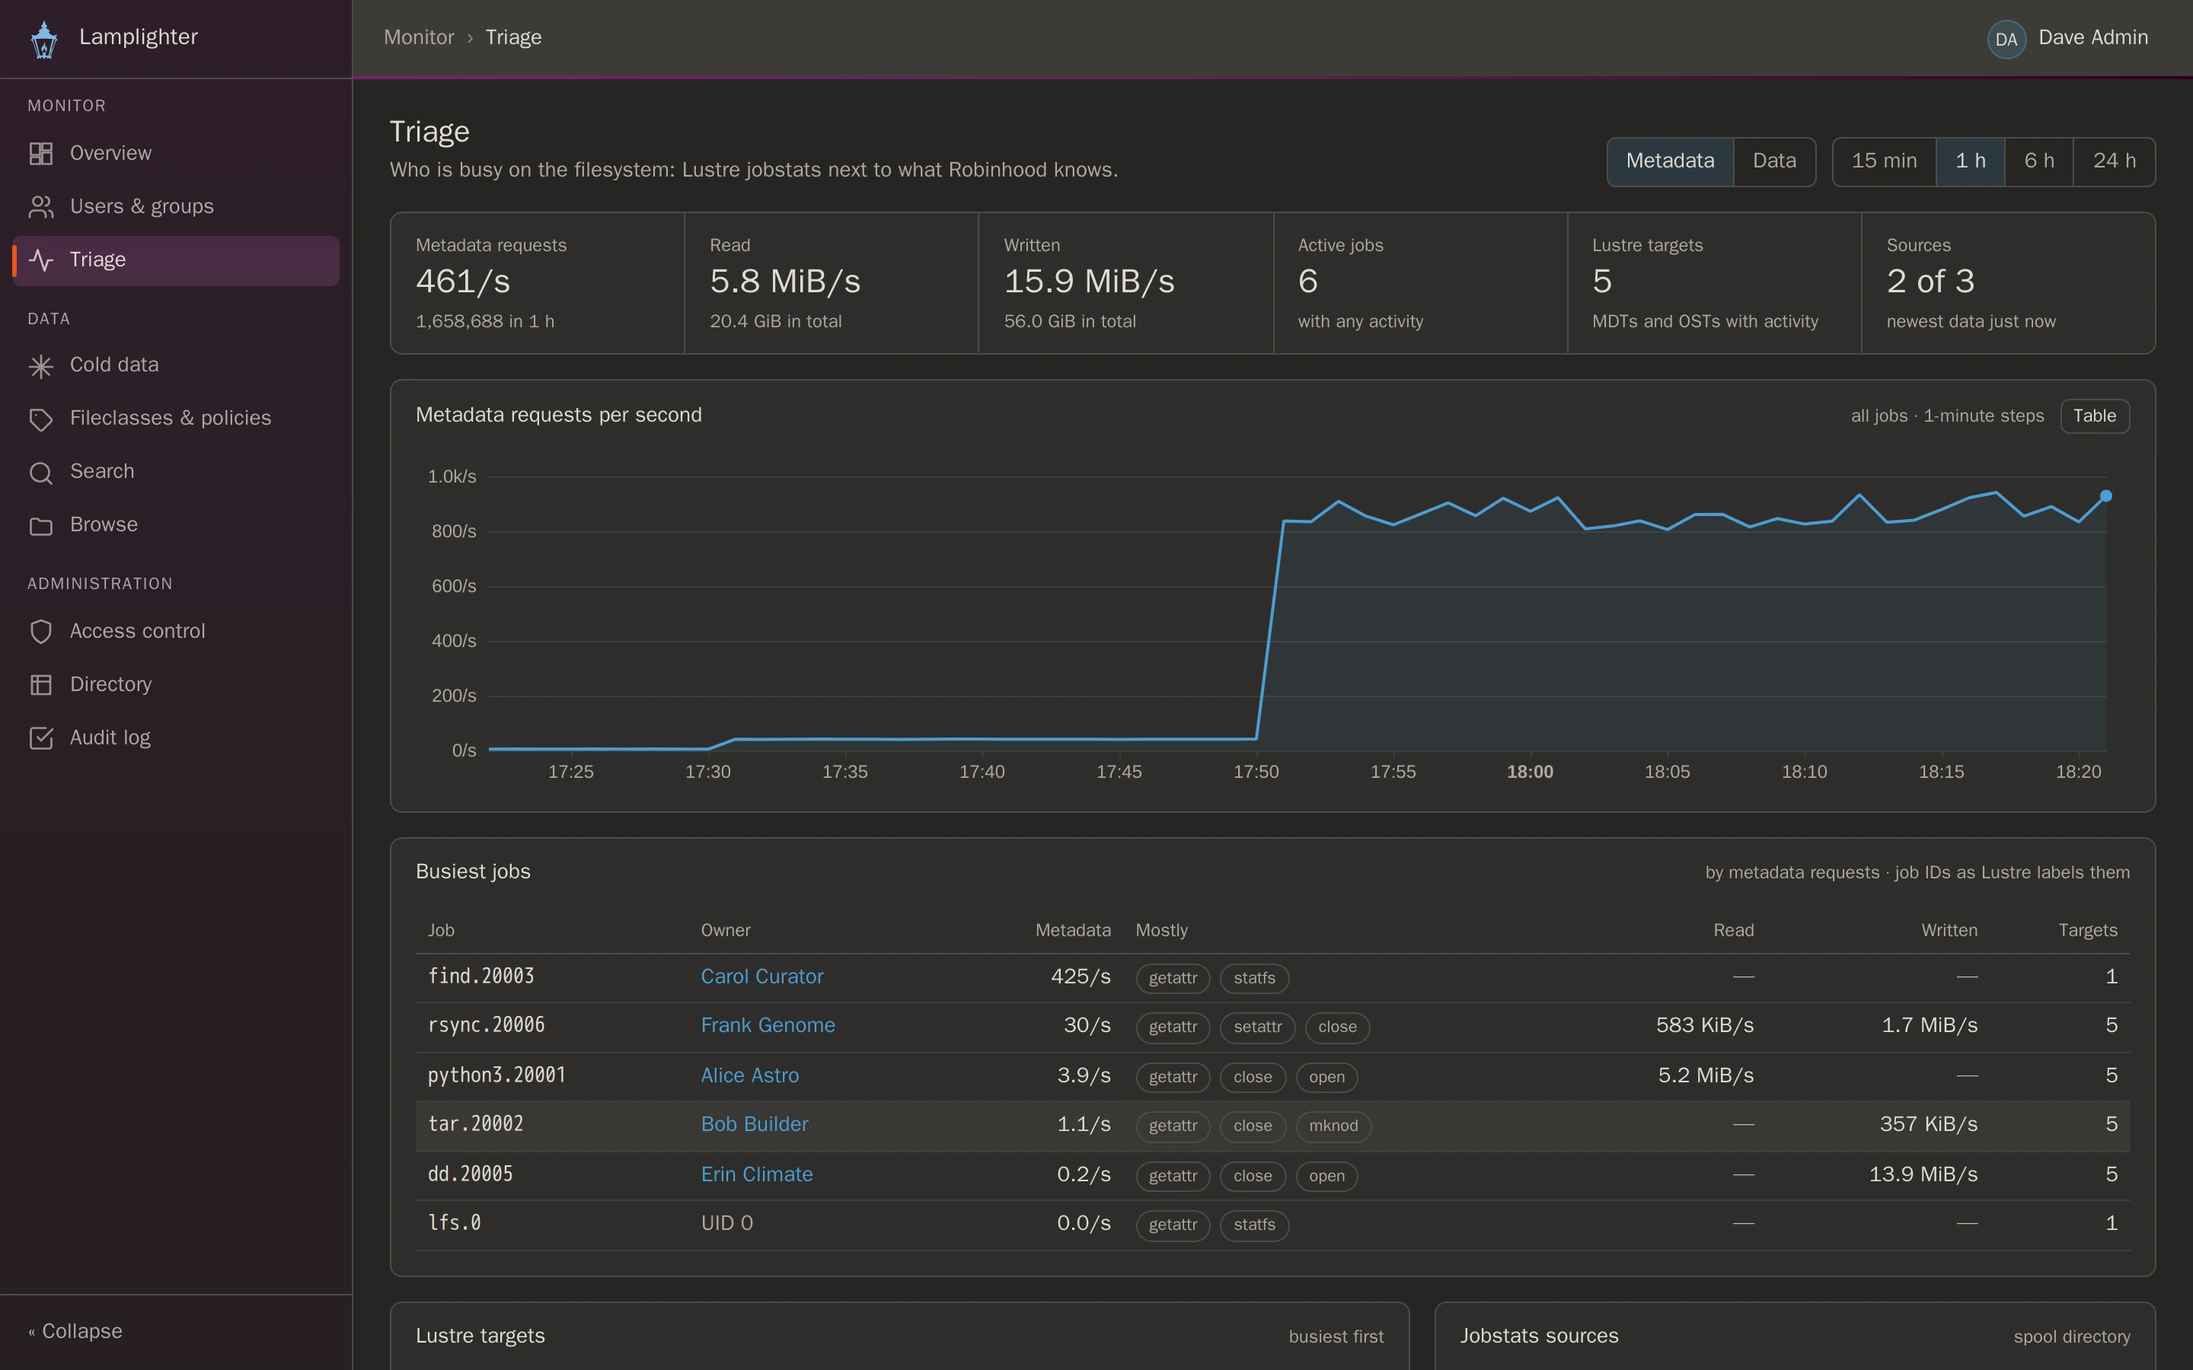
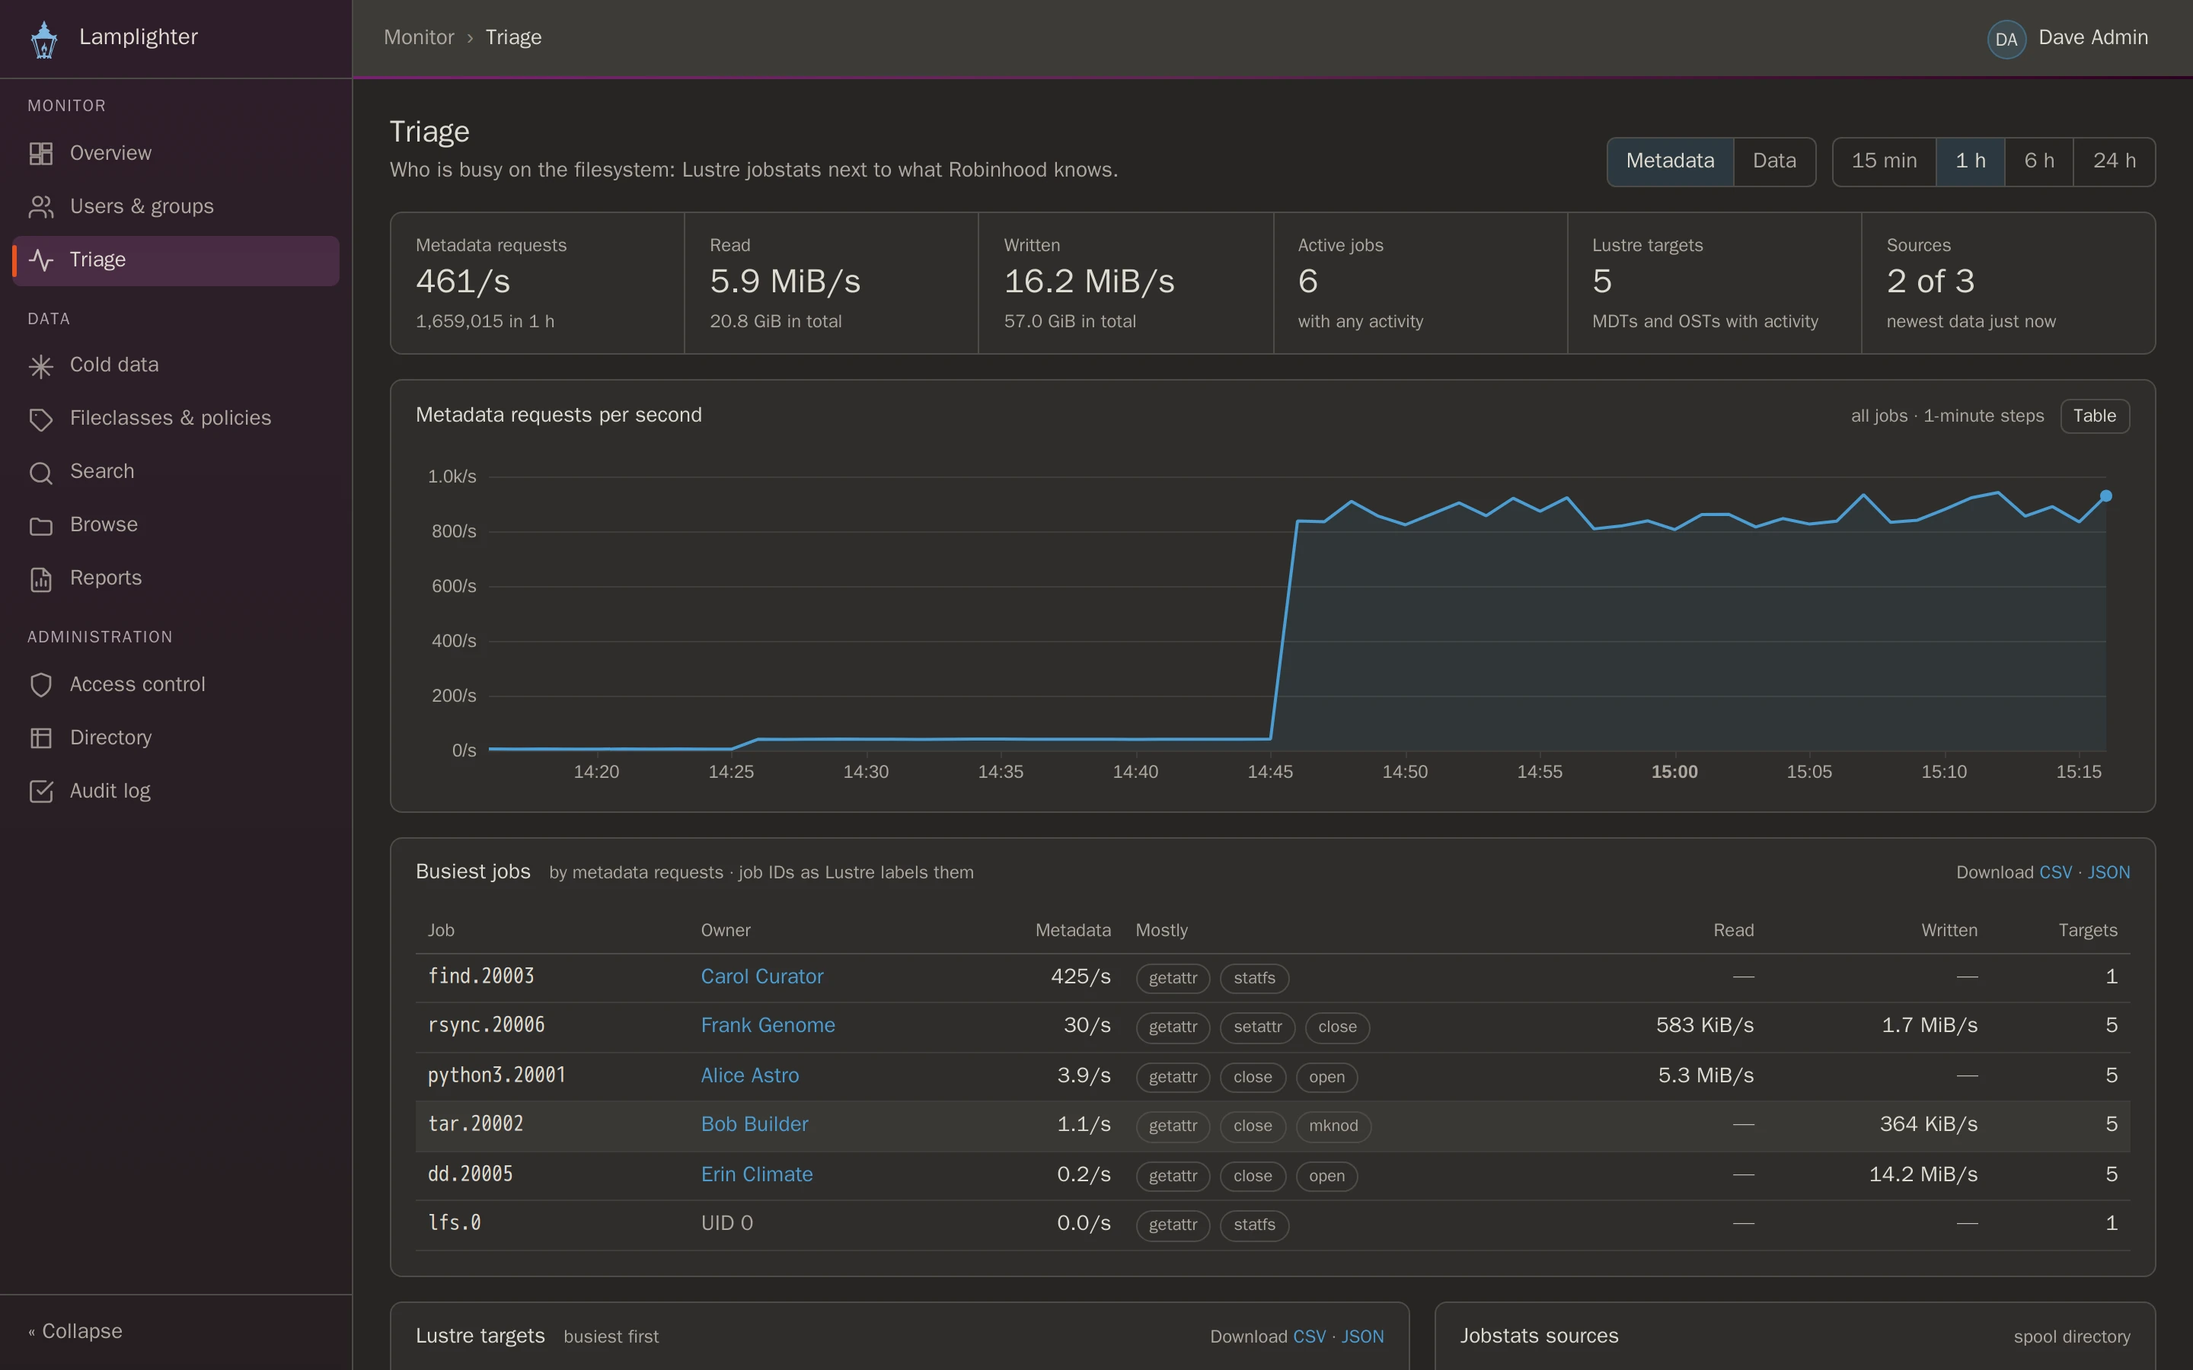
Prepare Lamplighter 1.0.0
Version 1.0.0 everywhere: the engine (configure.ac, release 1; based on
Robinhood 3.2.0, noted there and in the spec changelog), the web UI
(spec 1.0.0-1, Python package, front end) and the Checkmk MKP. The
engine packages still replace Robinhood's by package name, independent
of Lamplighter's own version.

doc/RELEASE-NOTES.md: what 1.0.0 contains, compatibility with
Robinhood, names, the web UI, Checkmk, packaging, and scale: every
figure so far measured only in a development environment (up to 10
million entries), never on production hardware or real Lustre.

README: status for 1.0.0, the corrected alerting wording (no system
alerts; report emails are information for people), Reports and
own-files Browse in the gallery, all screenshots regenerated.

Release checks: both source RPMs rebuilt with rpmbuild --rebuild in
fresh Rocky Linux 9.7 containers (aarch64; the engine's POSIX flavour).
The engine reports Version 1.0.0-1 and still obsoletes robinhood-* < 4.
The web UI RPM passes test-rpm.sh end to end, which now also checks
the lamplighter-reports units and command. 170 back-end tests and 19
smoke checks pass.

Claude-Session: https://claude.ai/code/session_01GqUC5w54fzneu4ETMkt9q5

diff --git a/webui/devenv/tools/screenshot.py b/webui/devenv/tools/screenshot.py
@@ -71,6 +71,8 @@ DOC_SHOTS = [
     ("carol", "/policies", "light", 1440, "policies"),
     ("carol", "/search?owner=erin&min_size=21474836480&unit=GiB&type=file&go=1", "dark", 1440, "search"),
     ("carol", "/browse?dir={projects}", "light", 1440, "browse"),
+    ("carol", "/reports/{report}", "dark", 1440, "reports"),
+    ("erin", "/browse", "light", 1440, "browse-own"),
     (None, "/auth/login", "dark", 1440, "sign-in"),
 ]
 DOCS = "--docs" in sys.argv

diff --git a/webui/checkmk/build_mkp.py b/webui/checkmk/build_mkp.py
@@ -17,7 +17,7 @@ from cmk.mkp_tool._mkp import Manifest, create_mkp, extract_manifest
 
 HERE = Path(__file__).resolve().parent
 PLUGINS = HERE / "cmk_addons" / "plugins"           # = ~/local/lib/python3/cmk_addons/plugins on a site
-VERSION = "0.2.0"
+VERSION = "1.0.0"
 CHECKMK_BUILT_WITH = "2.5.0p21"
 CHECKMK_MIN = "2.5.0"
 

diff --git a/webui/backend/src/lamplighter_webui/__init__.py b/webui/backend/src/lamplighter_webui/__init__.py
@@ -2,4 +2,4 @@
 # Copyright (C) 2026 Jonathan Mills
 """Lamplighter web UI back end."""
 
-__version__ = "0.1.0.dev0"
+__version__ = "1.0.0"

diff --git a/README.md b/README.md
@@ -13,7 +13,7 @@ Lamplighter is a policy engine and metadata mirror for large Lustre and POSIX fi
 
 **Lamplighter is a fork of the [Robinhood Policy Engine](https://github.com/cea-hpc/robinhood)**, created by CEA in France. The engine at its heart is Robinhood's, and we intend to keep it that way.
 
-> **Status: early work in progress.** The rename is done: the daemon is `lamplighter`, its administration tools are `lamplighter-report`, `lamplighter-config` and so on, the user tools are `lux-find` and `lux-du`, and the packages are `lamplighter-*`. The new web UI and Checkmk plugin work in the development environment, but nothing here is released yet. See [Status](#status).
+> **Status: Lamplighter 1.0.0, the first release.** The web UI is feature-complete with Robinhood's PHP GUI, and the engine is Robinhood 3.2.0's, under Lamplighter's names (`lamplighter`, `lamplighter-*`, `lux-find`, `lux-du`). Scale has so far been measured only in a development environment, and the Checkmk plugin has not yet run on a live site. See [Status](#status) and the [release notes](doc/RELEASE-NOTES.md).
 
 ## Standing on the shoulders of Robinhood
 
@@ -92,6 +92,12 @@ There is a French connection too: the lamplighter (*l'allumeur de réverbères*)
     <td><img src="doc/screenshots/browse.webp" alt="Browse: a directory's totals and its subdirectories, with volume and last access"><br>
       <b>Browse.</b> Walk the tree with subtree totals: volume, files, last access and the share not read in a year.</td>
   </tr>
+  <tr>
+    <td><img src="doc/screenshots/reports.webp" alt="Reports: a weekly report of cold-data owners, stacked by user over its kept runs, with the latest results and run history"><br>
+      <b>Reports.</b> Any table on a schedule, kept as a history with stacked graphs, downloadable as CSV or JSON, and emailed only to people allowed to see it.</td>
+    <td><img src="doc/screenshots/browse-own.webp" alt="Browse for a regular user: only the directories holding her own data, with her own totals"><br>
+      <b>Your own files.</b> Regular users browse just their own data: their totals, their files, and nobody else's names.</td>
+  </tr>
 </table>
 
 <p align="center"><img src="doc/screenshots/sign-in.webp" alt="Sign-in page: single sign-on or directory password" width="60%"><br>
@@ -128,7 +134,7 @@ A tool that shows who owns every file on a shared filesystem needs proper access
 
 ### One alerting tool: yours
 
-**Lamplighter never alerts.** No alert mail, no syslog alerts, no red-amber-green states in the interface. Monitoring and alerting belong in your monitoring system, and two alerting systems are one too many.
+**Lamplighter never raises alerts.** No alert mail, no syslog alerts, no red-amber-green states in the interface. Fault detection and alerting belong in your monitoring system, and two alerting systems are one too many. (Scheduled reports can email their results to the people allowed to see them. That is information for people, not an alert.)
 
 Instead, Lamplighter exposes read-only metrics (its own health, scan and changelog status, usage, and match counts per policy and fileclass) through a monitoring API. A **Checkmk** plugin (special agent, checks and rulesets for Checkmk 2.5) polls that API from the Checkmk server, with nothing installed on the Lamplighter host. All thresholds live in Checkmk. Robinhood's alert policies are still useful as classifiers, whose counts Checkmk can watch.
 
@@ -138,22 +144,23 @@ Perl build helpers are being replaced with Python, and the kernel's `checkpatch.
 
 ## Status
 
+**Lamplighter 1.0.0** is the first release: see the [release notes](doc/RELEASE-NOTES.md).
+
 | Area | Where it stands |
 |---|---|
-| Policy engine, scanner, changelog reader, `find`/`du`/`report` tools | Robinhood 3's engine, working, now under Lamplighter's names. |
-| Rename to Lamplighter (`lamplighter`, `lamplighter-*`, `lux-find`/`lux-du`, `/etc/lamplighter.d`, packages, `lamplighter-compat`) | Done, following [doc/COMPATIBILITY.md](doc/COMPATIBILITY.md). Upgrading over installed Robinhood RPMs and the full integration suite still need testing on a Linux host. |
-| Web UI: sign-in (OIDC and LDAP), LDAP groups and ACLs, audit log | Working in the development environment |
-| Web UI: overview, users and groups, cold data, directory browsing | Working in the development environment |
-| Web UI: slowdown triage with Lustre jobstats | In progress |
+| Policy engine, scanner, changelog reader, `find`/`du`/`report` tools | Robinhood 3.2.0's engine, unchanged, under Lamplighter's names. |
+| Rename to Lamplighter (`lamplighter`, `lamplighter-*`, `lux-find`/`lux-du`, `/etc/lamplighter.d`, packages, `lamplighter-compat`) | Done, following [doc/COMPATIBILITY.md](doc/COMPATIBILITY.md). Upgrading over installed Robinhood RPMs and the engine's full integration suite still need testing on a Linux host with Lustre. |
+| Web UI | Feature-complete with Robinhood's PHP GUI: overview, users and groups, triage with Lustre jobstats, cold data, fileclasses and policies, search, browsing, scheduled reports and graphs, CSV/JSON export, sign-in (OIDC and LDAP), roles and the audit log. |
+| Scale | Designed for 5 to 20 billion entries per filesystem; measured so far only in a development environment, up to 10 million entries (see the release notes). |
 | Checkmk 2.5 plugin | Built and tested against Checkmk's APIs, not yet run on a live site |
-| RPM packaging for Rocky Linux / RHEL 9 | Engine and web UI packages build and install in a clean Rocky 9.7 container |
+| RPM packaging for Rocky Linux / RHEL 9 | Source RPMs rebuild with `rpmbuild --rebuild`; the engine and web UI packages build and install in a clean Rocky 9.7 container (tested on ARM64; the sources are architecture-neutral) |
 | PHP web GUI | Removed. The last copy is kept at the git tag `robinhood-php-gui-final`. |
 
 The design for everything web-related is in [doc/webui-design.md](doc/webui-design.md).
 
 ## Building and installing
 
-Lamplighter has no release yet: you build RPMs from a git clone. Any Rocky Linux or RHEL 9 host can be the build host, x86-64 or ARM. You get a source RPM (SRPM), and `rpmbuild --rebuild` turns it into RPMs for the build host's architecture.
+You build RPMs from a git clone (for 1.0.0, check out the tag `v1.0.0`). Any Rocky Linux or RHEL 9 host can be the build host, x86-64 or ARM. You get a source RPM (SRPM), and `rpmbuild --rebuild` turns it into RPMs for the build host's architecture.
 
 ### The engine
 

diff --git a/doc/RELEASE-NOTES.md b/doc/RELEASE-NOTES.md
@@ -1,0 +1,143 @@
+# Lamplighter release notes
+
+## 1.0.0
+
+The first release of Lamplighter, a fork of the **Robinhood Policy
+Engine 3.2.0** by CEA. Robinhood's scanner, changelog reader, pipeline
+and policy engine are kept as they are; Lamplighter's work is around
+them: a new web UI, monitoring through Checkmk, modern packaging, and a
+consistent name. Our thanks go to CEA and every Robinhood contributor.
+
+### Compatibility with Robinhood
+
+- **The same database schema.** An existing Robinhood 3 database works
+  unchanged, and so does a `mysqldump` of one.
+- **The same configuration format.** A Robinhood configuration file
+  works when copied to `/etc/lamplighter.d/`. Command names in `cmd()`
+  actions that Lamplighter renamed are reported by
+  `lamplighter-config check`.
+- **Upgrades replace Robinhood 3 packages** by name (`robinhood-lustre`,
+  `robinhood-posix`, `robinhood-adm`).
+- **Robinhood's command names**, for existing scripts, come from the
+  optional `lamplighter-compat` package.
+- One Lamplighter installation per filesystem, as with Robinhood.
+
+See `doc/COMPATIBILITY.md` and `doc/NAMING.md`.
+
+### Names
+
+- Tools for any user, in `/usr/bin`: `lux-find`, `lux-du`.
+- Everything else is `lamplighter`: the daemon and its systemd unit,
+  the administration tools in `/usr/sbin`, `/etc/lamplighter.d`, and
+  the packages.
+
+### The web UI (`lamplighter-webui`)
+
+It replaces Robinhood's PHP GUI (`gui_v3`), and is feature-complete
+with it. It is written in Python (FastAPI) and React, and needs no PHP.
+
+**Pages:**
+- **Overview:** Robinhood's status (changelog, last scan), usage,
+  collector runs.
+- **Users & groups:** usage per owner and group from Robinhood's
+  accounting, each owner's page with history and data age, and the
+  largest users or groups stacked over time.
+- **Triage:** "the filesystem is slow, who is doing what?" Lustre
+  jobstats (busiest jobs, Lustre targets, metadata and I/O over 15
+  minutes to 24 hours) next to what Robinhood knows. Jobstats come from
+  a spool directory, or from Prometheus. No job scheduler is needed;
+  scheduler details are an optional plug-in hook, off by default.
+- **Cold data:** the oldest, largest and least-used data, the coldest
+  directories, and their owners to contact, for purging or moving to
+  cold storage.
+- **Fileclasses & policies:** entries and volume per Robinhood
+  fileclass and policy status.
+- **Search:** files by owner, group, name, size and age, within a
+  directory tree. With the optional replica indexes, the whole
+  filesystem can be searched too.
+- **Browse:** directory trees with subtree totals. People with the
+  `user` or `viewer` role browse their own files only.
+- **Reports:** any table on a schedule (hourly, daily, weekly), as a
+  history with custom and stacked graphs, and optional email to
+  permitted recipients through the site's mail relay.
+- **Exports:** every table downloads as CSV or JSON.
+- **Administration:** directory (LDAP) settings and tests, access
+  control, and the audit log.
+
+**Access:**
+- Sign-in with OpenID Connect (Keycloak) or a direct LDAP bind.
+- Identity and groups come from LDAP (RFC 2307 or 2307bis, TLS
+  required).
+- Roles (`user`, `viewer`, `data-manager`, `admin`) map to LDAP groups,
+  and are enforced in the API.
+- Every sign-in, denial, view of personal data, export and report is
+  audited (journald, plus a copy in the database).
+
+**Background jobs** (systemd timers):
+- `lamplighter-collector` pre-computes data ages, directory totals and
+  policy counts from Robinhood's database (ideally a replica).
+- `lamplighter-jobstats` reads jobstats every minute.
+- `lamplighter-reports` runs the scheduled reports.
+
+### Monitoring with Checkmk
+
+Checkmk Pro is the tool for fault detection and alerting. A special
+agent and rulesets for Checkmk 2.5 (an MKP, `lamplighter-1.0.0.mkp`)
+poll the web UI's monitoring endpoint. Nothing is installed on the
+Robinhood host. All thresholds live in Checkmk; Robinhood's alert
+policies are used as classifiers only.
+
+### Packaging
+
+- **Source RPMs**, `lamplighter` and `lamplighter-webui`.
+  `rpmbuild --rebuild` builds them on a Linux host. Rocky Linux 9 is the
+  reference. The sources are architecture-neutral; the 1.0.0 packages
+  were built and tested on ARM64 (aarch64). The engine's Lustre package
+  needs Lustre's client development packages on the build host; the
+  release check built the POSIX package.
+- **The web UI's RPM** carries its own Python environment and the built
+  front end. Node.js is needed only on the build host.
+
+### Scale: what was measured, and where
+
+Lamplighter is designed for Lustre filesystems beyond 100 PB (5 to 20
+billion entries). **Every measurement so far comes from a development
+environment on a laptop, with synthetic databases of up to 10 million
+entries. None was made on production hardware or on a real Lustre
+filesystem.** Treat the figures below as evidence of the design, not as
+production guarantees. `lamplighter-scale` reproduces them on your own
+hardware.
+
+At 10 million entries:
+- **Web pages** take 0 to 10 ms, and do not grow with the number of
+  files.
+- **The collector** went from 381 s to 41 s, with:
+  - parallel scans by primary-key range
+  - a scratch schema for the parallel directory rollup
+  - the optional replica index on `NAMES (id, parent_id)`
+- **Whole-filesystem search** by owner and size takes 0.38 s with the
+  replica indexes (`lamplighter-config replica_indexes`). Without them,
+  it stops at its 20-second limit.
+- **Jobstats storage** was tested at 2,000 running jobs on 300 targets:
+  0.3 s to store a snapshot, and 0.12 to 0.64 s for the triage view.
+
+**Projected for 10 billion entries** (not measured): the replica indexes
+need about 2.5 TB and a build of many hours.
+
+`doc/webui-design.md` (Scale) has the details.
+
+### Known limits
+
+- **Production hardware:** see above. Testing at production scale is
+  planned after 1.0 (`doc/BACKLOG.md`, item 6).
+- **The engine is Robinhood 3.2.0's C code**, unchanged. An
+  incremental move to Rust is planned after 1.0 (`doc/BACKLOG.md`,
+  item 2).
+- **The web UI reads Robinhood's database and never changes it.**
+  Running policies or deleting data from the UI is out of scope.
+
+### Licences
+
+- The Robinhood engine and its tools remain under **CeCILL-C**.
+- The web UI and the Checkmk plugin are **GPL-2.0-or-later**.
+- All dependencies are GPLv3-compatible.

diff --git a/webui/checkmk/README.md b/webui/checkmk/README.md
@@ -46,7 +46,7 @@ The tests run under Python 3.13 against **Checkmk 2.5's real plugin APIs**, copi
 
 ```sh
 ./devenv.sh checkmk-test   # 16 tests: the special agent against the live dev API, checks, rulesets, secret handling
-./devenv.sh mkp            # builds dist/lamplighter-0.1.0.mkp with Checkmk's own packaging code
+./devenv.sh mkp            # builds dist/lamplighter-1.0.0.mkp with Checkmk's own packaging code
 ```
 
 **Limitation:** Checkmk publishes its images for x86-64 only. On Apple Silicon they run under emulation, where a full Checkmk site doesn't start, so the package has **not yet been installed in a running Checkmk site**. Do that once on an x86-64 Checkmk 2.5 test site before production.
